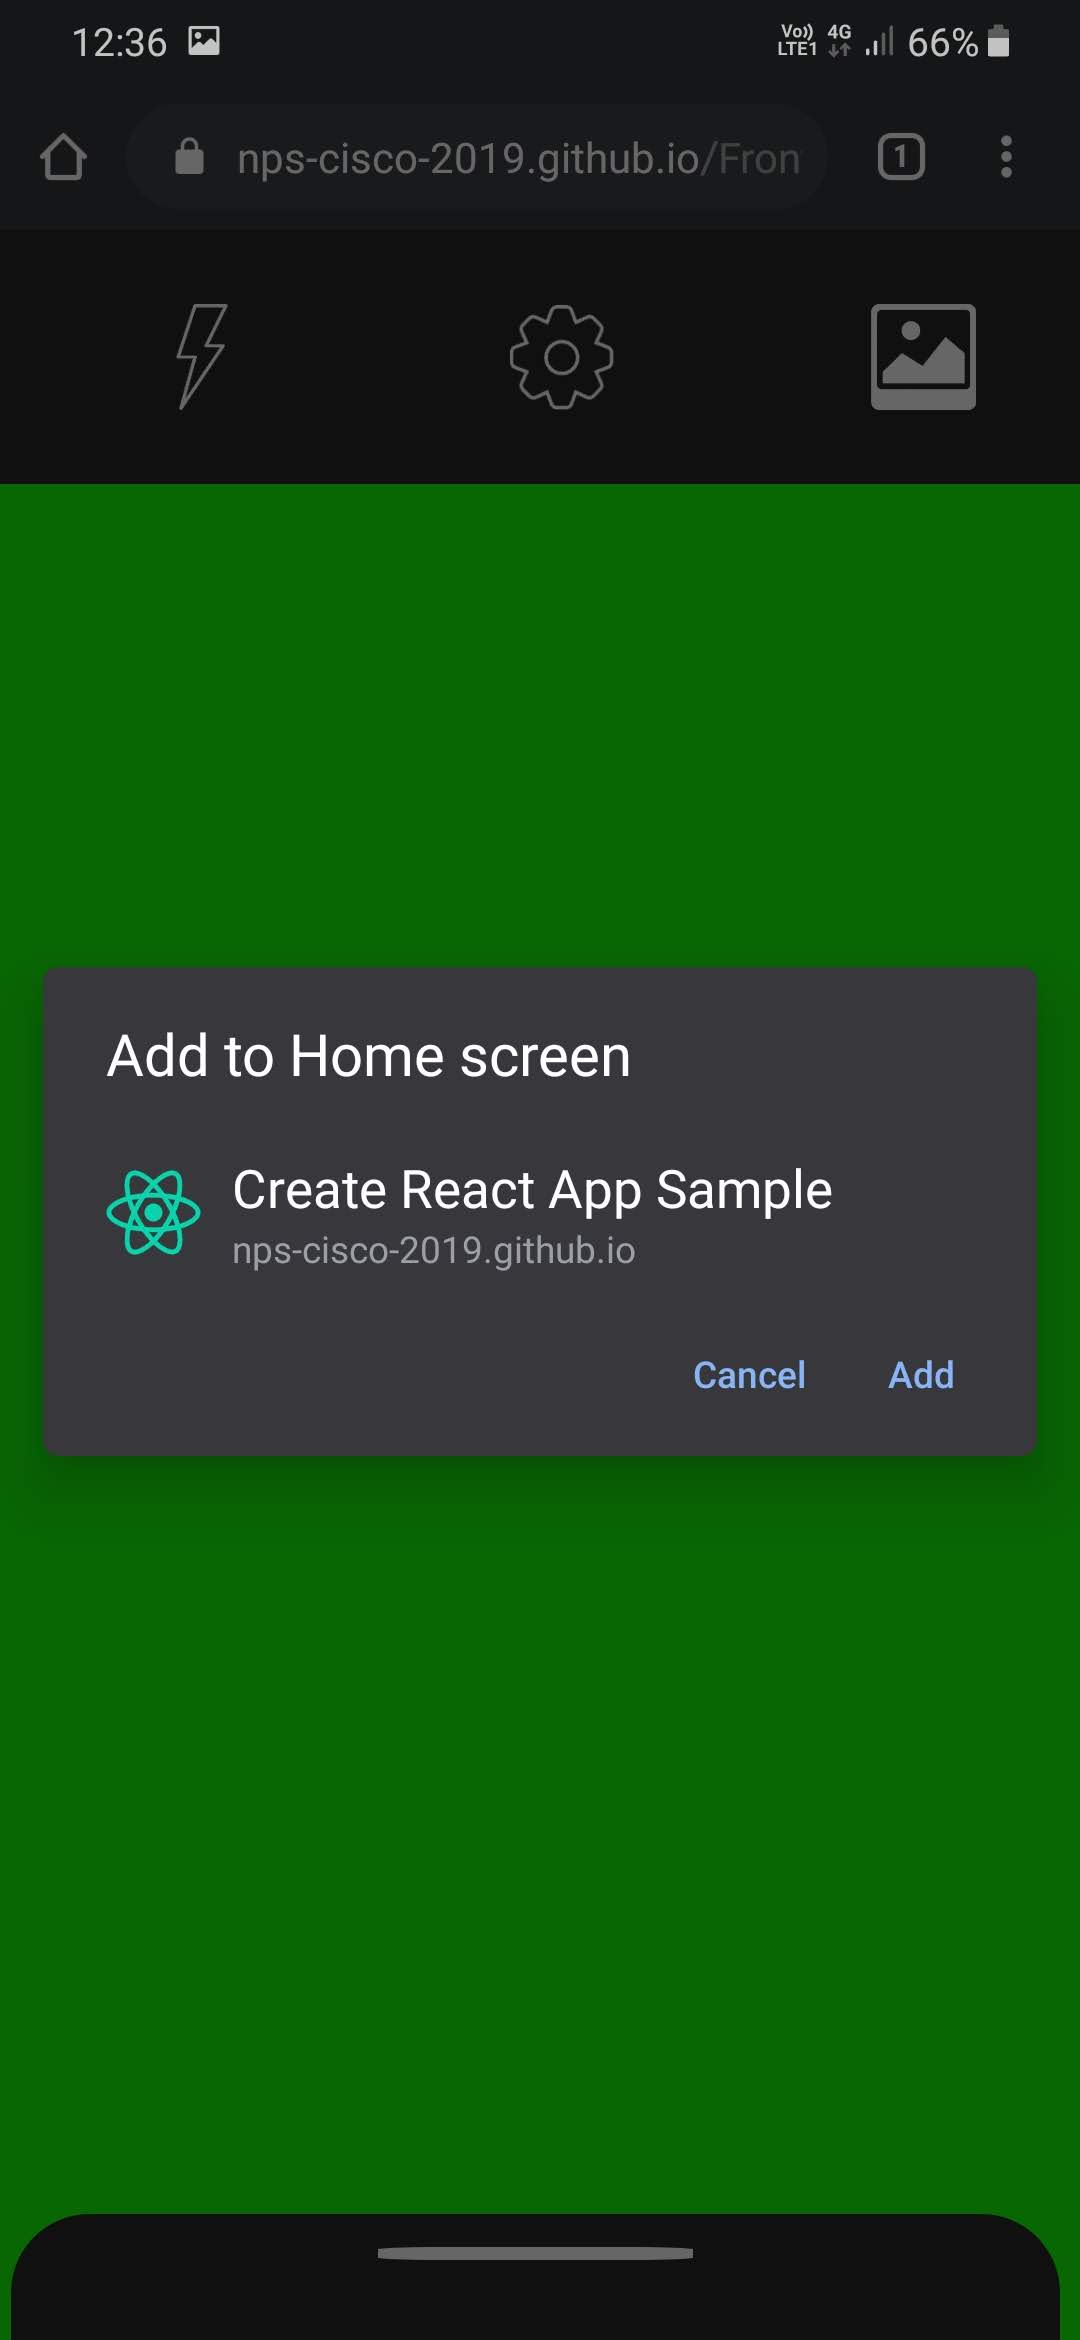
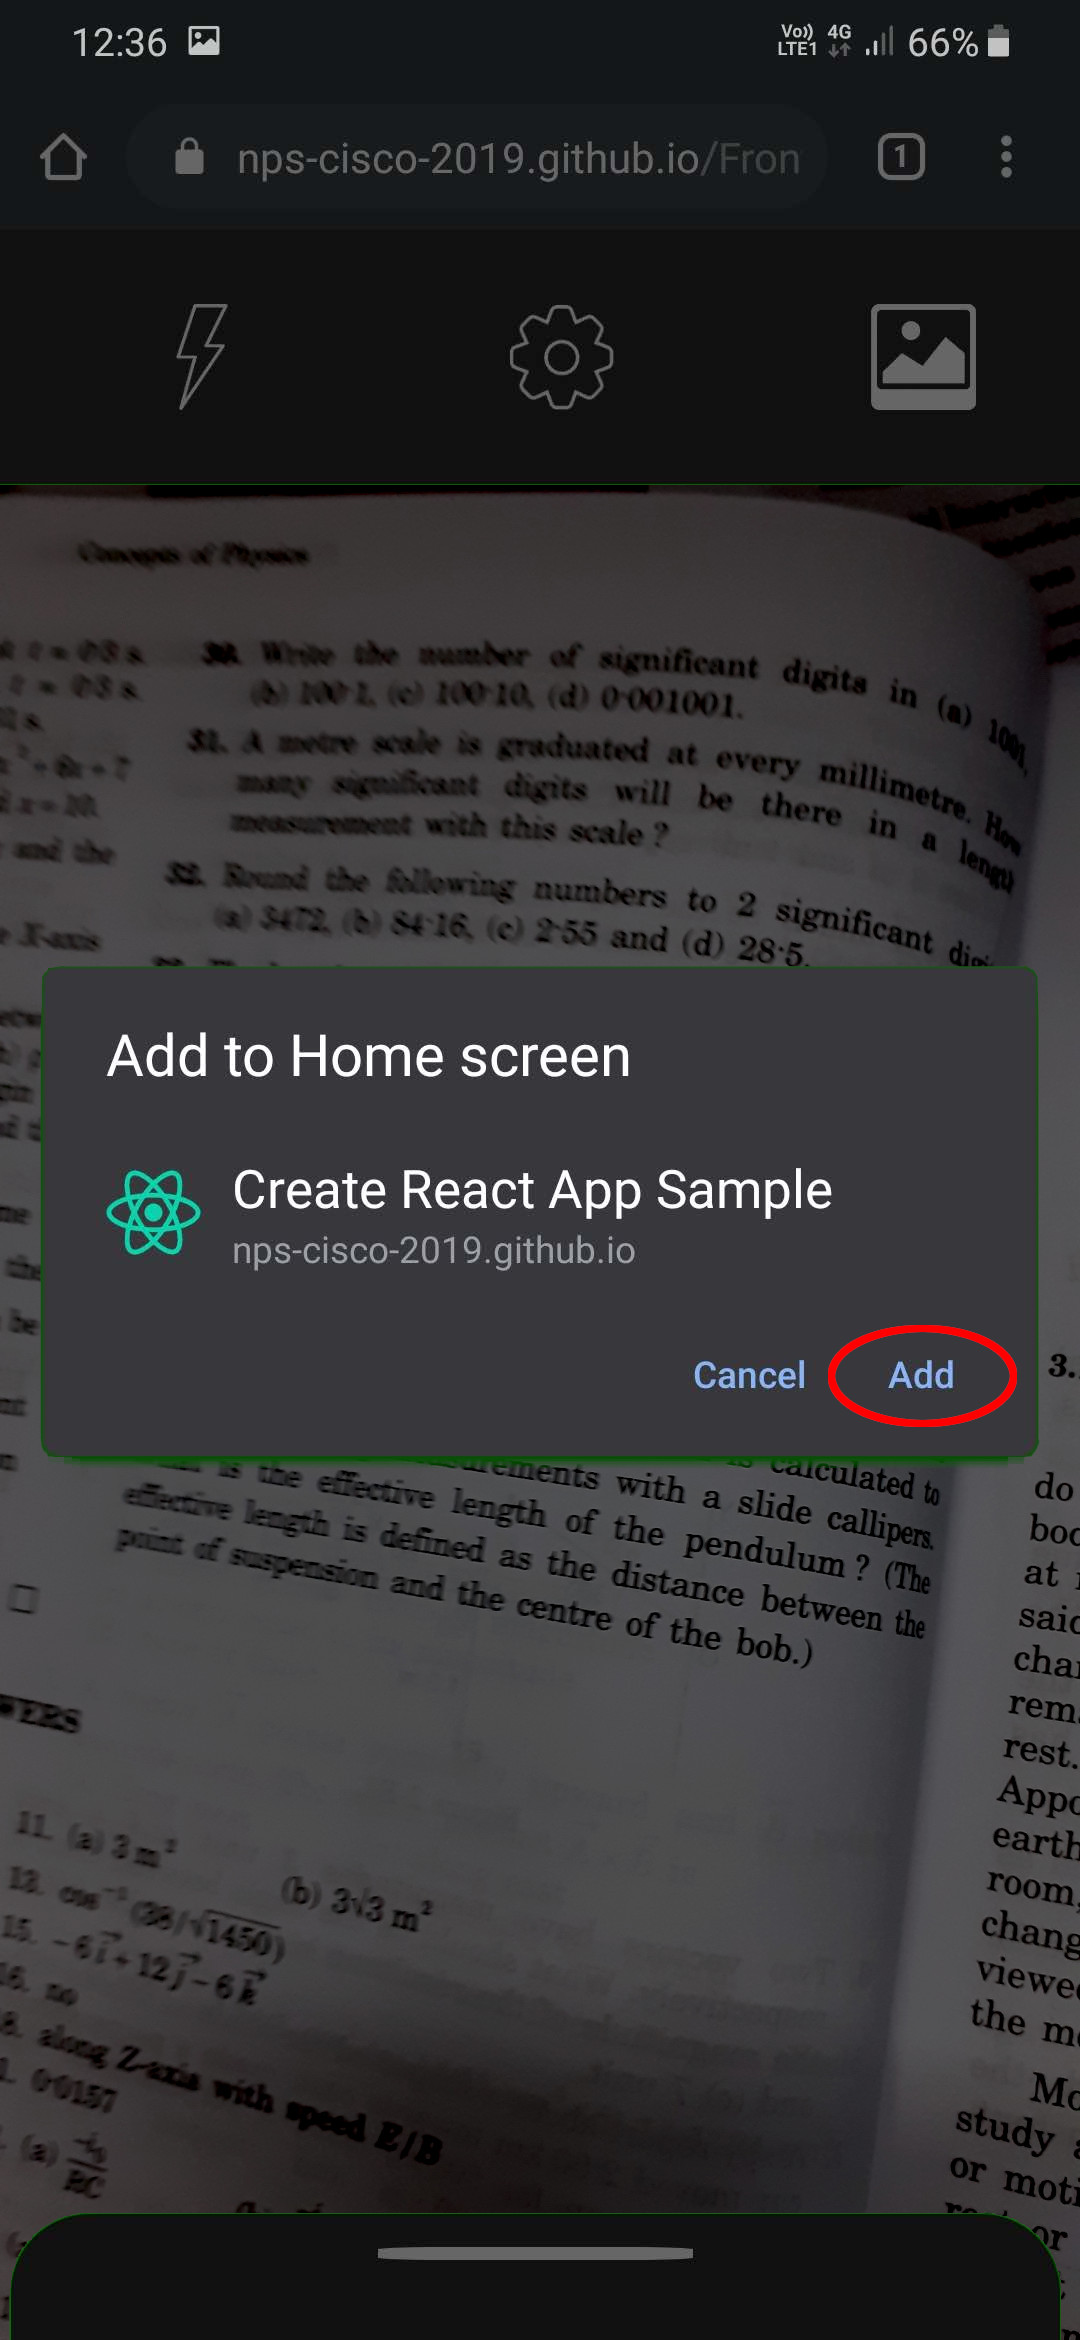
added basic animations

diff --git a/src/elements.js b/src/elements.js
@@ -58,8 +58,25 @@ export function Chrome() {
         height: window.innerHeight * 3
     }
     return (
-        <div style={style} className="tut">
-            <p>TODO Chrome tutorial</p>
+        <div style={style} className="tut tutOthers">
+            <div className="img1">
+                <img className="tutImg" src={require("./pictures/chrome1.jpg")} alt="tutorial 1" />
+            </div>
+			<div className="p1">
+                <p>Click on the the circled button</p>
+            </div>
+			<div className="img2">
+                <img className="tutImg" src={require("./pictures/chrome2.jpg")} alt="tutorial 2" />
+            </div>
+			<div className="p2">
+                <p>Click on "Add to Home screen".</p>
+            </div>
+            <div className="img3">
+                <img className="tutImg" src={require("./pictures/chrome3.jpg")} alt="tutorial 3" />
+            </div>
+			<div className="p3">
+                <p>Click on "Add" to install to your home screen.</p>
+            </div>
         </div>
     );
 }
@@ -69,7 +86,7 @@ export function Firefox() {
         height: window.innerHeight * 2
     }
     return (
-        <div style={style} className="tut">
+        <div style={style} className="tut tutFirefox">
             <div className="img1">
                 <img className="tutImg" src={require("./pictures/firefox1.jpg")} alt="tutorial 1" />
             </div>
@@ -91,7 +108,7 @@ export function Safari() {
         height: window.innerHeight * 3
     }
     return (
-        <div style={style} className="tut">
+        <div style={style} className="tut tutOthers">
             <p>TODO Safari tutorial</p>
         </div>
     );

diff --git a/src/App.css b/src/App.css
@@ -171,20 +171,32 @@ h3 {
 	display: grid;
 	grid-template-areas: "img1 text1" "img2 text2" "img3 text3";
   grid-template-columns: 1fr 1fr;
-  grid-template-rows: repeat(3, 45%);
   margin: 30px;
   padding: 1%;
   row-gap: 5%;
   animation: fadein 1s;
 }
 
-.img1{
+.tutFirefox {
+  grid-template-rows: repeat(3, 45%);
+}
+
+.tutOthers {
+  grid-template-rows: repeat(3, 30%);
+}
+
+.img1 {
   grid-area: img1;
   display: block;
 }
 
-.img2{
+.img2 {
   grid-area: img2;
+  justify-self: center;
+}
+
+.img3 {
+  grid-area: img3;
   justify-self: center;
 }
 
@@ -197,6 +209,13 @@ h3 {
 
 .p2 {
   grid-area: text2;
+  font-size: 300%;
+  text-align: center;
+  align-self: center;
+}
+
+.p3 {
+  grid-area: text3;
   font-size: 300%;
   text-align: center;
   align-self: center;
@@ -215,6 +234,7 @@ button {
   background-color: transparent;
   cursor: pointer;
 }
+
 @keyframes fadein {
   from { opacity: 0;}
   to { opacity: 1; }
